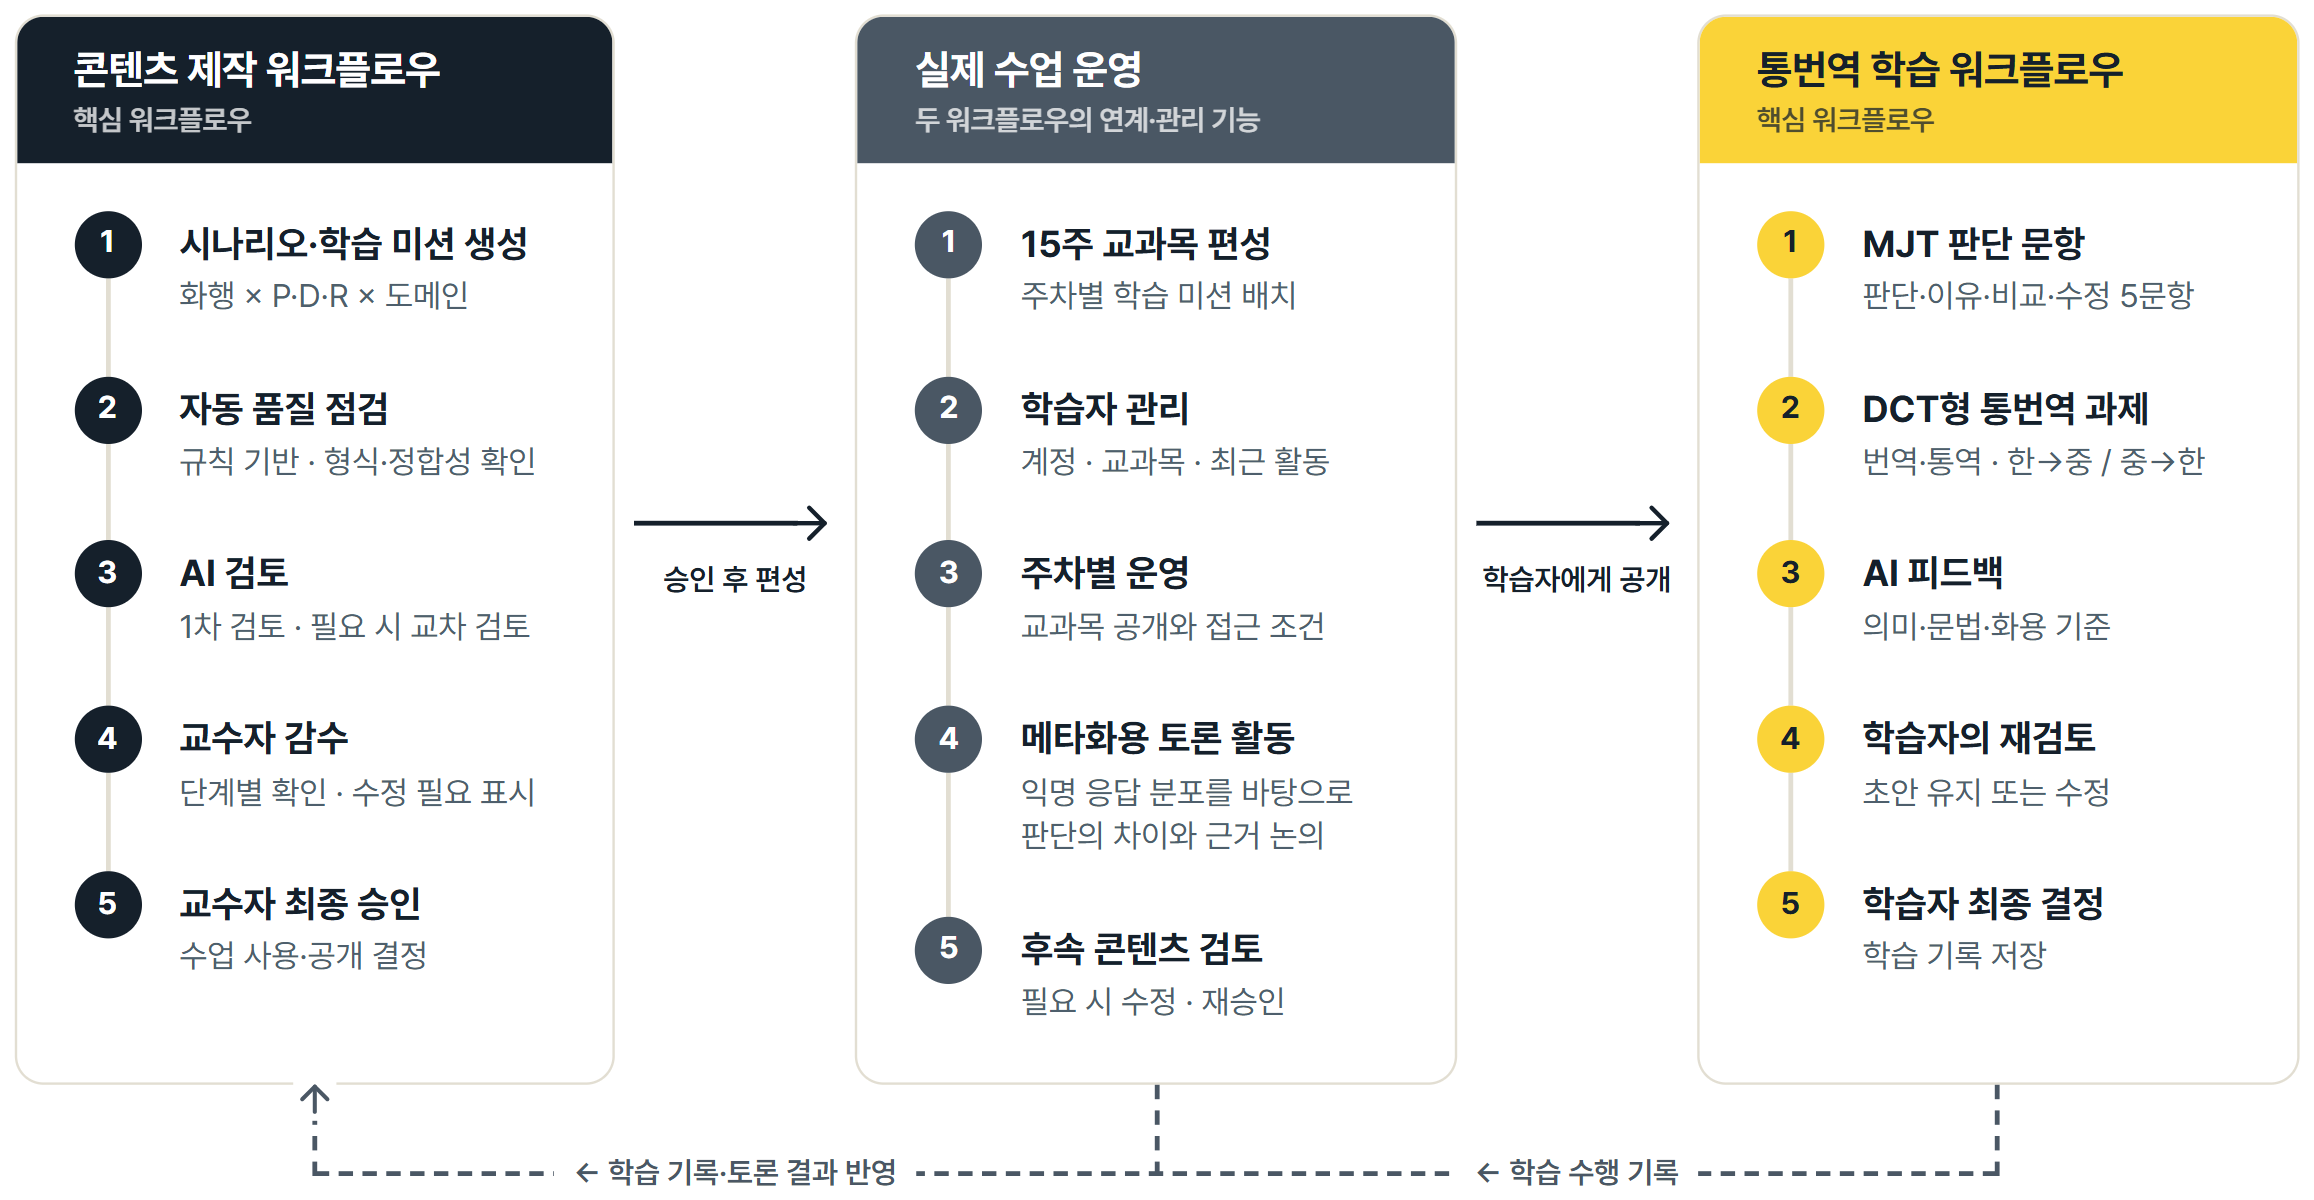
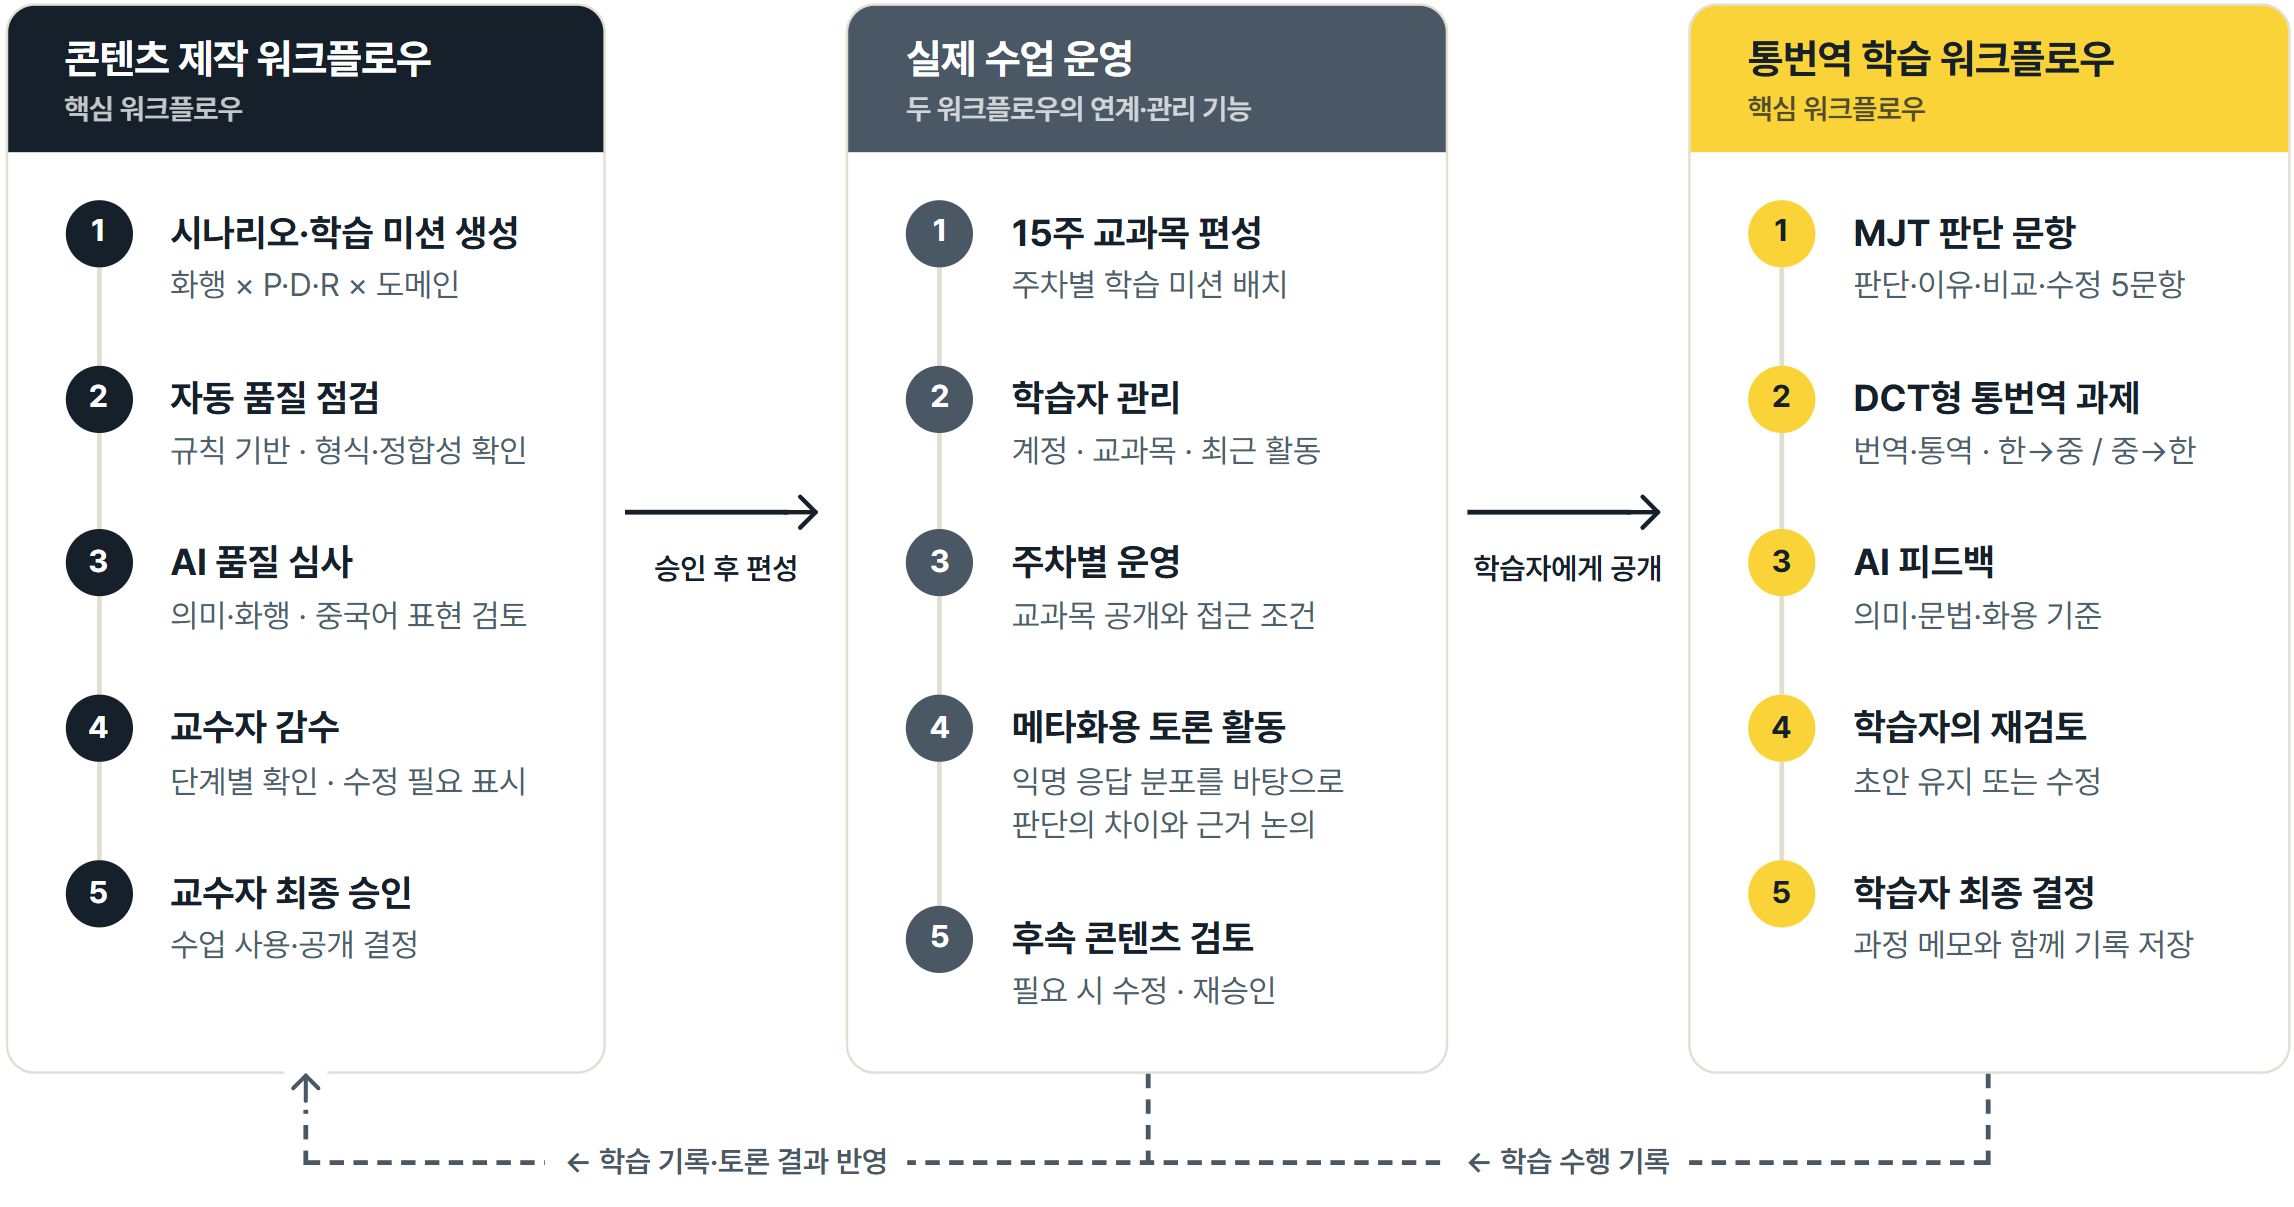
Bring README figures in line with the current quality and learning flow (#395)
* Bring README figures in line with the current quality and learning flow

- Fig. 1 and /architecture: name the review step as the AI quality check with the Chinese expression review, and note the process memo at the final decision
- Fig. 2: show who writes and who checks zh-ko source text, add the on-request Chinese expression review, and drop the vendor wording in the principle
- Fig. 3: redraw with the required process memos and the dissent reason that lets a learner keep the draft
- Fig. 4: redraw external services as Google Gemini, OpenAI and ElevenLabs; remove the retired cross-review provider
- README: learner auto-approval, process memo and dissent wording, November baseline

* Replace the dashboard screenshot with the current four-step quality view

diff --git a/src/pages/Architecture.tsx b/src/pages/Architecture.tsx
@@ -72,7 +72,7 @@ const FeedbackLoop = () => (
 const CONTENT_STEPS: readonly Step[] = [
   ["시나리오·학습 미션 생성", "화행 × P·D·R × 도메인"],
   ["자동 품질 점검", "규칙 기반 · 형식·정합성 확인"],
-  ["AI 검토", "1차 검토 · 필요 시 교차 검토"],
+  ["AI 품질 심사", "의미·화행 · 중국어 표현 검토"],
   ["교수자 감수", "단계별 확인 · 수정 필요 표시"],
   ["교수자 최종 승인", "수업 사용·공개 결정"],
 ];
@@ -88,7 +88,7 @@ const LEARNING_STEPS: readonly Step[] = [
   ["DCT형 통번역 과제", "번역·통역 · 한→중 / 중→한"],
   ["AI 피드백", "의미·문법·화용 기준"],
   ["학습자의 재검토", "초안 유지 또는 수정"],
-  ["학습자 최종 결정", "학습 기록 저장"],
+  ["학습자 최종 결정", "과정 메모와 함께 기록 저장"],
 ];
 
 // 기록·자료는 그것이 남는 관리자 화면으로 연결한다(관리자 로그인 필요).

diff --git a/README.md b/README.md
@@ -58,7 +58,7 @@ PRAGMA는 한·중 통번역에서 원문의 의미와 화행목적을 유지하
 
 ### 3. 콘텐츠 제작·학습 워크플로우와 AI 모델 배정
 
-<p align="center"><img src="docs/figures/fig2-workflow-model-roles-1027.png" alt="콘텐츠 제작·학습 워크플로우와 AI 모델 배정: 만드는 일은 Gemini 3.1 Pro, 검사하는 일은 GPT-6 Astra, 최종 승인은 교수자" width="100%"></p>
+<p align="center"><img src="docs/figures/fig2-workflow-model-roles-1108.png" alt="콘텐츠 제작·학습 워크플로우와 AI 모델 배정: 만드는 일은 Gemini 3.1 Pro, 검사하는 일은 GPT-6 Astra, 최종 승인은 교수자" width="100%"></p>
 
 > <small>만드는 일은 Gemini 3.1 Pro, 검사하는 일은 GPT-6 Astra가 맡고, 최종 승인은 교수자가 합니다.</small>
 
@@ -68,11 +68,12 @@ PRAGMA는 한·중 통번역에서 원문의 의미와 화행목적을 유지하
 
 ### 4. 통번역 학습 워크플로우
 
-<p align="center"><img src="docs/figures/fig3-learning-mission-1011c.png" alt="통번역 학습 워크플로우: 다섯 개의 MJT 판단 문항과 하나의 DCT형 통번역 과제로 구성된 학습 미션" width="100%"></p>
+<p align="center"><img src="docs/figures/fig3-learning-mission-1108.png" alt="통번역 학습 워크플로우: 다섯 개의 MJT 판단 문항과 하나의 DCT형 통번역 과제로 구성된 학습 미션" width="100%"></p>
 
 - **학습 미션**은 다섯 개의 MJT 판단 문항과 하나의 DCT형 통번역 과제로 구성됩니다.
 - **MJT 판단 문항**에서는 제시된 표현의 화용적 적절성을 판단하고 선택하거나 수정합니다.
-- **DCT형 통번역 과제**에서는 초안과 수정안에 각각 AI 피드백을 받은 뒤, 학습자가 최종안을 결정합니다.
+- **DCT형 통번역 과제**에서는 초안과 수정안에 각각 AI 피드백을 받은 뒤, 학습자가 최종안을 결정합니다. 수정 권고를 받아도 이의 근거를 남기면 초안을 최종안으로 유지할 수 있습니다.
+- **통번역 과정 메모**는 필수 자유 서술입니다. 최초 메모는 AI 피드백을 보기 전에, 최종 메모는 최종안을 확정할 때 씁니다.
 - **AI 피드백**은 의미적 충실성·문법적 정확성·화용적 적절성의 세 기준으로 통번역을 검토합니다.
 - **번역과 통역** 미션은 구성이 같고, 통역은 속도와 휴지를 조정한 합성 음성을 듣고 수행합니다.
 
@@ -84,7 +85,7 @@ PRAGMA는 한·중 통번역에서 원문의 의미와 화행목적을 유지하
   <thead><tr><th width="168" align="left">기능</th><th width="598" align="left">내용</th></tr></thead>
   <tbody>
     <tr><td>교과목 편성</td><td>번역·통역·통번역 교과목의 15주 계획에 승인된 학습 미션을 주차별로 배치</td></tr>
-    <tr><td>학습자 관리</td><td>프로필 작성과 교수자의 가입 승인을 마친 학습자가 교과목에 참여</td></tr>
+    <tr><td>학습자 관리</td><td>프로필 작성과 수업 기록 동의를 마친 학습자가 바로 교과목에 참여하고, 교수자는 언제든 반려할 수 있음</td></tr>
     <tr><td>메타화용 토론</td><td>학습자 응답 분포와 선택 이유를 바탕으로 판단의 차이와 근거를 수업에서 논의</td></tr>
     <tr><td>수행 현황</td><td>학습자별 미션 수행 상태와 기록을 확인</td></tr>
   </tbody>
@@ -94,7 +95,7 @@ PRAGMA는 한·중 통번역에서 원문의 의미와 화행목적을 유지하
 
 <br>
 
-<p align="center"><img src="docs/figures/screen-admin-dashboard-v4.png" alt="교수자 화면: PRAGMA 교수자 대시보드와 다섯 묶음의 관리자 메뉴" width="100%"></p>
+<p align="center"><img src="docs/figures/screen-admin-dashboard-v5.png" alt="교수자 화면: PRAGMA 교수자 대시보드, 다섯 묶음의 관리자 메뉴와 네 단계 콘텐츠 품질 관리" width="100%"></p>
 
 > <small>PRAGMA 교수자 대시보드</small>
 
@@ -102,14 +103,14 @@ PRAGMA는 한·중 통번역에서 원문의 의미와 화행목적을 유지하
 
 ### 6. 시스템 아키텍처
 
-<p align="center"><img src="docs/figures/fig4-system-architecture-1011c.png" alt="시스템 아키텍처: 클라이언트 층, 서버 함수 층, 데이터 층과 외부 서비스" width="100%"></p>
+<p align="center"><img src="docs/figures/fig4-system-architecture-1108.png" alt="시스템 아키텍처: 클라이언트 층, 서버 함수 층, 데이터 층과 외부 서비스" width="100%"></p>
 
-<sub>2026년 10월 기준</sub>
+<sub>2026년 11월 기준</sub>
 
 - **모델 배정**은 과제별 블라인드 비교를 거쳐 정했습니다.
-- **시나리오 생성**은 한→중이면 Gemini 3.1 Pro, 중→한이면 중국어 원문을 쓰는 GPT-6 Astra가 맡습니다. 저장 전 의미 검토는 작성 모델과 다른 회사의 모델이 맡습니다(한→중 GPT-6 Astra, 중→한 Gemini 3.1 Pro).
+- **시나리오 생성**은 한→중이면 Gemini 3.1 Pro, 중→한이면 중국어 원문을 쓰는 GPT-6 Astra가 맡습니다. 저장 전 의미 검토는 작성 모델과 다른 계열의 모델이 맡습니다(한→중 GPT-6 Astra, 중→한 Gemini 3.1 Pro).
 - **학습 미션 생성**에는 Gemini 3.1 Pro를 사용합니다.
-- **AI 품질 심사**에는 GPT-6 Astra를 사용합니다. 중국어 표현 자연성도 이 심사에서 함께 봅니다.
+- **AI 품질 심사**에는 GPT-6 Astra를 사용합니다. 중국어 표현 자연성도 이 심사에서 함께 보며, 필요하면 중국어 표현 검토를 따로 요청할 수 있습니다.
 - **AI 피드백**은 Gemini 3.1 Pro가 쓰고, 학습자에게 보이기 전에 GPT-6 Astra가 검수합니다.
 - **통역**의 <b>음성 인식(STT)</b>은 GPT-4o Transcribe, <b>음성 합성(TTS)</b>은 ElevenLabs로 처리합니다.
 - **구현**은 React·TypeScript와 Supabase Edge Functions·PostgreSQL로 구성됩니다.
